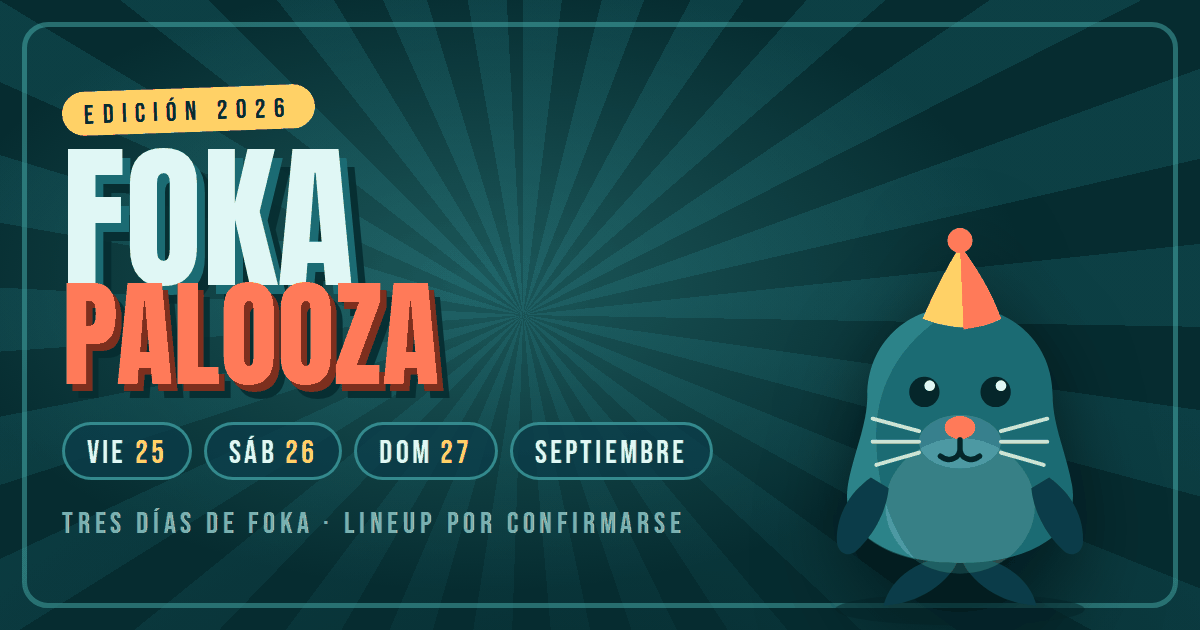
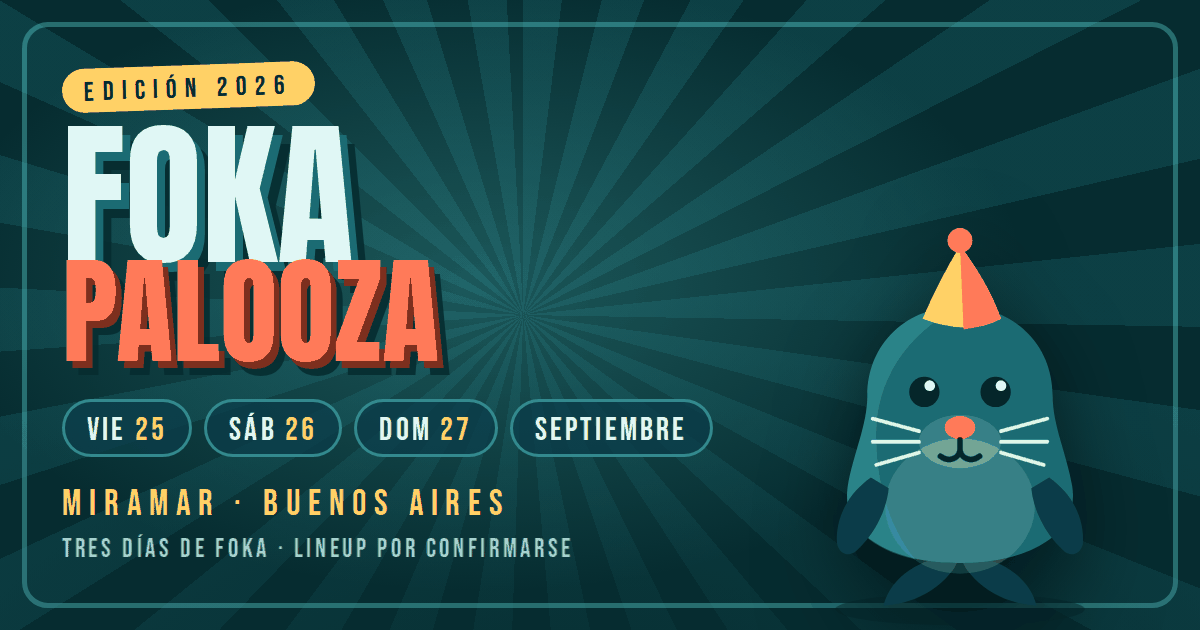
Decir en todos lados que es en Miramar
Faltaba el dato más básico de una invitación: el lugar. Ahora aparece en

- el hero, debajo de las fechas
- una sección propia con link al mapa
- el pie de página
- la descripción del sitio y las meta de compartir
- el afiche del preview de WhatsApp, en dorado sobre la bajada
- el campo LOCATION de los tres eventos del .ics
- el texto del botón de compartir

La imagen sube a ?v=5 para que WhatsApp regenere el preview.

La sección dice que la dirección exacta sale junto con el lineup: si ya
la tenés, va ahí.

Claude-Session: https://claude.ai/code/session_01BBNb1CZXyyDDs5fEVQKhzv

Changed region(s): [[0.0308, 0.0905, 0.6167, 0.9048], [0.74, 0.6937, 0.8325, 0.754]]

diff --git a/index.html b/index.html
@@ -5,7 +5,7 @@
 <meta name="viewport" content="width=device-width, initial-scale=1, viewport-fit=cover">
 
 <title>FOKA PALOOZA 2026 — 25, 26 y 27 de septiembre</title>
-<meta name="description" content="Cumplo el viernes 25 y el festejo grande es el sábado 26. Tres días: 25, 26 y 27 de septiembre. Lineup por confirmarse el 15/9. Confirmá tu lugar.">
+<meta name="description" content="En Miramar, Buenos Aires. Cumplo el viernes 25 y el festejo grande es el sábado 26. Tres días: 25, 26 y 27 de septiembre. Lineup por confirmarse el 15/9. Confirmá tu lugar.">
 
 <!-- ============================================================
      COMPARTIR EN WHATSAPP / REDES  (Open Graph + Twitter Cards)
@@ -20,17 +20,17 @@
 <meta property="og:locale" content="es_AR">
 <meta property="og:url" content="https://fokapalooza.ar/">
 <meta property="og:title" content="FOKA PALOOZA 2026 🦭">
-<meta property="og:description" content="Cumplo el viernes 25, pero el festejo grande es el sábado 26. Tres días de foca. Lineup por confirmarse.">
-<meta property="og:image" content="https://fokapalooza.ar/assets/og.png?v=4">
-<meta property="og:image:secure_url" content="https://fokapalooza.ar/assets/og.png?v=4">
+<meta property="og:description" content="Miramar, Buenos Aires · 25, 26 y 27 de septiembre. Cumplo el viernes, pero el festejo grande es el sábado. Lineup por confirmarse.">
+<meta property="og:image" content="https://fokapalooza.ar/assets/og.png?v=5">
+<meta property="og:image:secure_url" content="https://fokapalooza.ar/assets/og.png?v=5">
 <meta property="og:image:type" content="image/png">
 <meta property="og:image:width" content="1200">
 <meta property="og:image:height" content="630">
-<meta property="og:image:alt" content="Afiche de Foka Palooza 2026: 25, 26 y 27 de septiembre.">
+<meta property="og:image:alt" content="Afiche de Foka Palooza 2026: Miramar, 25, 26 y 27 de septiembre.">
 <meta name="twitter:card" content="summary_large_image">
 <meta name="twitter:title" content="FOKA PALOOZA 2026 🦭">
-<meta name="twitter:description" content="Cumplo el viernes 25, pero el festejo grande es el sábado 26. Tres días de foca.">
-<meta name="twitter:image" content="https://fokapalooza.ar/assets/og.png?v=4">
+<meta name="twitter:description" content="Miramar, Buenos Aires · 25, 26 y 27 de septiembre. El festejo grande es el sábado.">
+<meta name="twitter:image" content="https://fokapalooza.ar/assets/og.png?v=5">
 <meta name="theme-color" content="#062C30">
 
 <link rel="icon" href="assets/favicon.svg" type="image/svg+xml">
@@ -200,6 +200,17 @@ a{color:var(--foam)}
 }
 .date-chip b{color:var(--gold);font-weight:400}
 
+.place{
+  display:inline-flex;align-items:center;gap:.5rem;
+  margin-top:1.1rem;
+  font-family:var(--label);
+  font-size:clamp(1.05rem,3vw,1.4rem);
+  letter-spacing:.16em;text-transform:uppercase;
+  color:var(--gold);
+}
+.place::before,.place::after{
+  content:'';width:clamp(18px,5vw,42px);height:2px;background:currentColor;opacity:.5;
+}
 .hero-tag{
   margin:1.4rem auto 0;
   max-width:34ch;
@@ -564,6 +575,8 @@ footer{
       <span class="date-chip">Septiembre</span>
     </div>
 
+    <p class="place">Miramar · Buenos Aires</p>
+
     <p class="hero-tag">Tres días de foca. <b style="color:var(--ice);font-weight:500">Cumplo el viernes 25</b>, pero como sé que muchos llegan recién esa noche, el festejo grande va el sábado.</p>
 
     <div class="cta-row">
@@ -656,6 +669,21 @@ footer{
 <div class="marquee alt" aria-hidden="true">
   <div class="marquee__track" id="mq2"></div>
 </div>
+
+<!-- ============================ DÓNDE ============================ -->
+<section class="pad center" id="donde">
+  <div class="wrap">
+    <p class="eyebrow">Dónde</p>
+    <h2 class="section-title">En <em>Miramar</em></h2>
+    <p class="lead">Buenos Aires, Argentina. Son tres días frente al mar: si venís de lejos, andá viendo dónde dormir — cualquier cosa escribime y lo vemos.</p>
+
+    <div class="cta-row">
+      <a class="btn btn-ghost" href="https://www.google.com/maps/search/?api=1&amp;query=Miramar%2C+Buenos+Aires%2C+Argentina" target="_blank" rel="noopener">Ver en el mapa 📍</a>
+    </div>
+
+    <p class="reveal-note">La dirección exacta va junto con el lineup, el 15 de septiembre.</p>
+  </div>
+</section>
 
 <!-- ============================ CONFIRMACIÓN ============================ -->
 <section class="pad" id="confirmar">
@@ -754,7 +782,7 @@ footer{
   <div class="wrap">
     <p class="icon-row" aria-hidden="true">🦭 🎸 ✦ 🍻 ✦ 🎧 ✦ 🎂 🦭</p>
     <p class="foot-word">Foka Palooza<br>2026</p>
-    <p class="foot-note">25, 26 y 27 de septiembre · Hecho con cariño y sin patrocinadores.</p>
+    <p class="foot-note">Miramar, Buenos Aires · 25, 26 y 27 de septiembre<br>Hecho con cariño y sin patrocinadores.</p>
     <div class="share-row">
       <a class="btn btn-ghost" href="#confirmar">Confirmar</a>
       <a class="btn btn-ghost" href="#avisame">Avisame del lineup</a>
@@ -990,6 +1018,7 @@ document.getElementById('btn-ics').addEventListener('click', () => {
     'DTSTART;TZID=America/Argentina/Buenos_Aires:' + d.start,
     'DTEND;TZID=America/Argentina/Buenos_Aires:' + d.end,
     'SUMMARY:' + FOKA.event.title + ' — ' + nombres[i],
+    'LOCATION:Miramar\\, Buenos Aires\\, Argentina',
     'DESCRIPTION:Lineup por confirmarse. Más info: ' + FOKA.event.url,
     'URL:' + FOKA.event.url,
     'END:VEVENT'
@@ -1006,7 +1035,7 @@ document.getElementById('btn-ics').addEventListener('click', () => {
 /* ================= COMPARTIR ================= */
 document.getElementById('btn-share').addEventListener('click', async () => {
   const url = FOKA.event.url;
-  const text = '🦭 FOKA PALOOZA 2026 — 25, 26 y 27 de septiembre. Lineup por confirmarse. Confirmá acá: ';
+  const text = '🦭 FOKA PALOOZA 2026 — Miramar, 25, 26 y 27 de septiembre. Lineup por confirmarse. Confirmá acá: ';
   if(navigator.share){
     try{ await navigator.share({ title:'FOKA PALOOZA 2026', text, url }); return; }catch(_){}
   }

diff --git a/tools/og-source.html b/tools/og-source.html
@@ -27,7 +27,8 @@
     border:3px solid rgba(79,189,187,.6);background:rgba(11,60,73,.75);
     padding:9px 22px 4px;border-radius:99px}
   .chip b{color:#FFD166;font-weight:400}
-  .tag{white-space:nowrap;font-family:'Bebas Neue',sans-serif;font-size:30px;letter-spacing:.16em;color:#8FBFC2;margin-top:26px}
+  .tag{white-space:nowrap;font-family:'Bebas Neue',sans-serif;font-size:36px;letter-spacing:.22em;color:#FFD166;margin-top:26px}
+  .tag2{white-space:nowrap;font-family:'Bebas Neue',sans-serif;font-size:26px;letter-spacing:.14em;color:#8FBFC2;margin-top:8px}
   .seal{position:absolute;right:44px;bottom:-4px;width:392px;filter:drop-shadow(0 22px 40px rgba(0,0,0,.55))}
 </style></head>
 <body>
@@ -68,7 +69,8 @@
       <span class="chip">DOM <b>27</b></span>
       <span class="chip">SEPTIEMBRE</span>
     </div>
-    <div class="tag">TRES DÍAS DE FOKA · LINEUP POR CONFIRMARSE</div>
+    <div class="tag">MIRAMAR · BUENOS AIRES</div>
+    <div class="tag2">TRES DÍAS DE FOKA · LINEUP POR CONFIRMARSE</div>
   </div>
 </div>
 </body></html>

diff --git a/README.md b/README.md
@@ -1,6 +1,6 @@
 # 🦭 FOKA PALOOZA 2026
 
-Landing del cumpleaños. **Viernes 25, sábado 26 y domingo 27 de septiembre.**
+Landing del cumpleaños. **Miramar, Buenos Aires · Viernes 25, sábado 26 y domingo 27 de septiembre.**
 El cumple es el viernes 25; el festejo grande es el sábado 26.
 Lineup por confirmarse: se anuncia el **15 de septiembre**.
 
